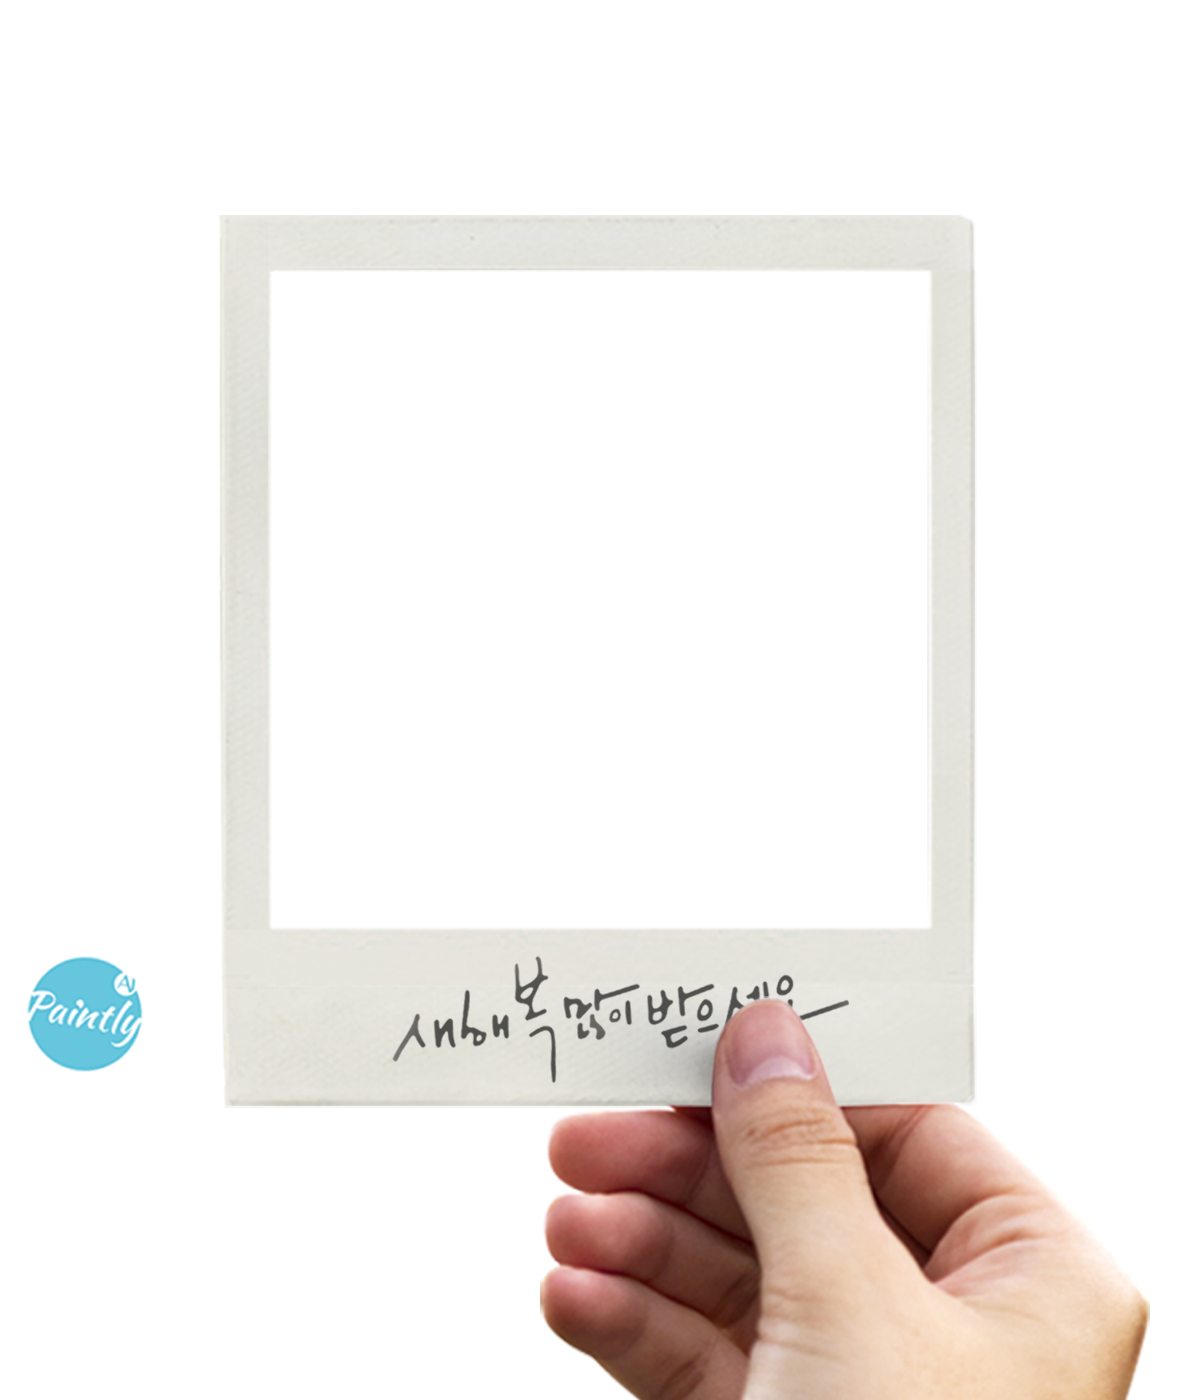
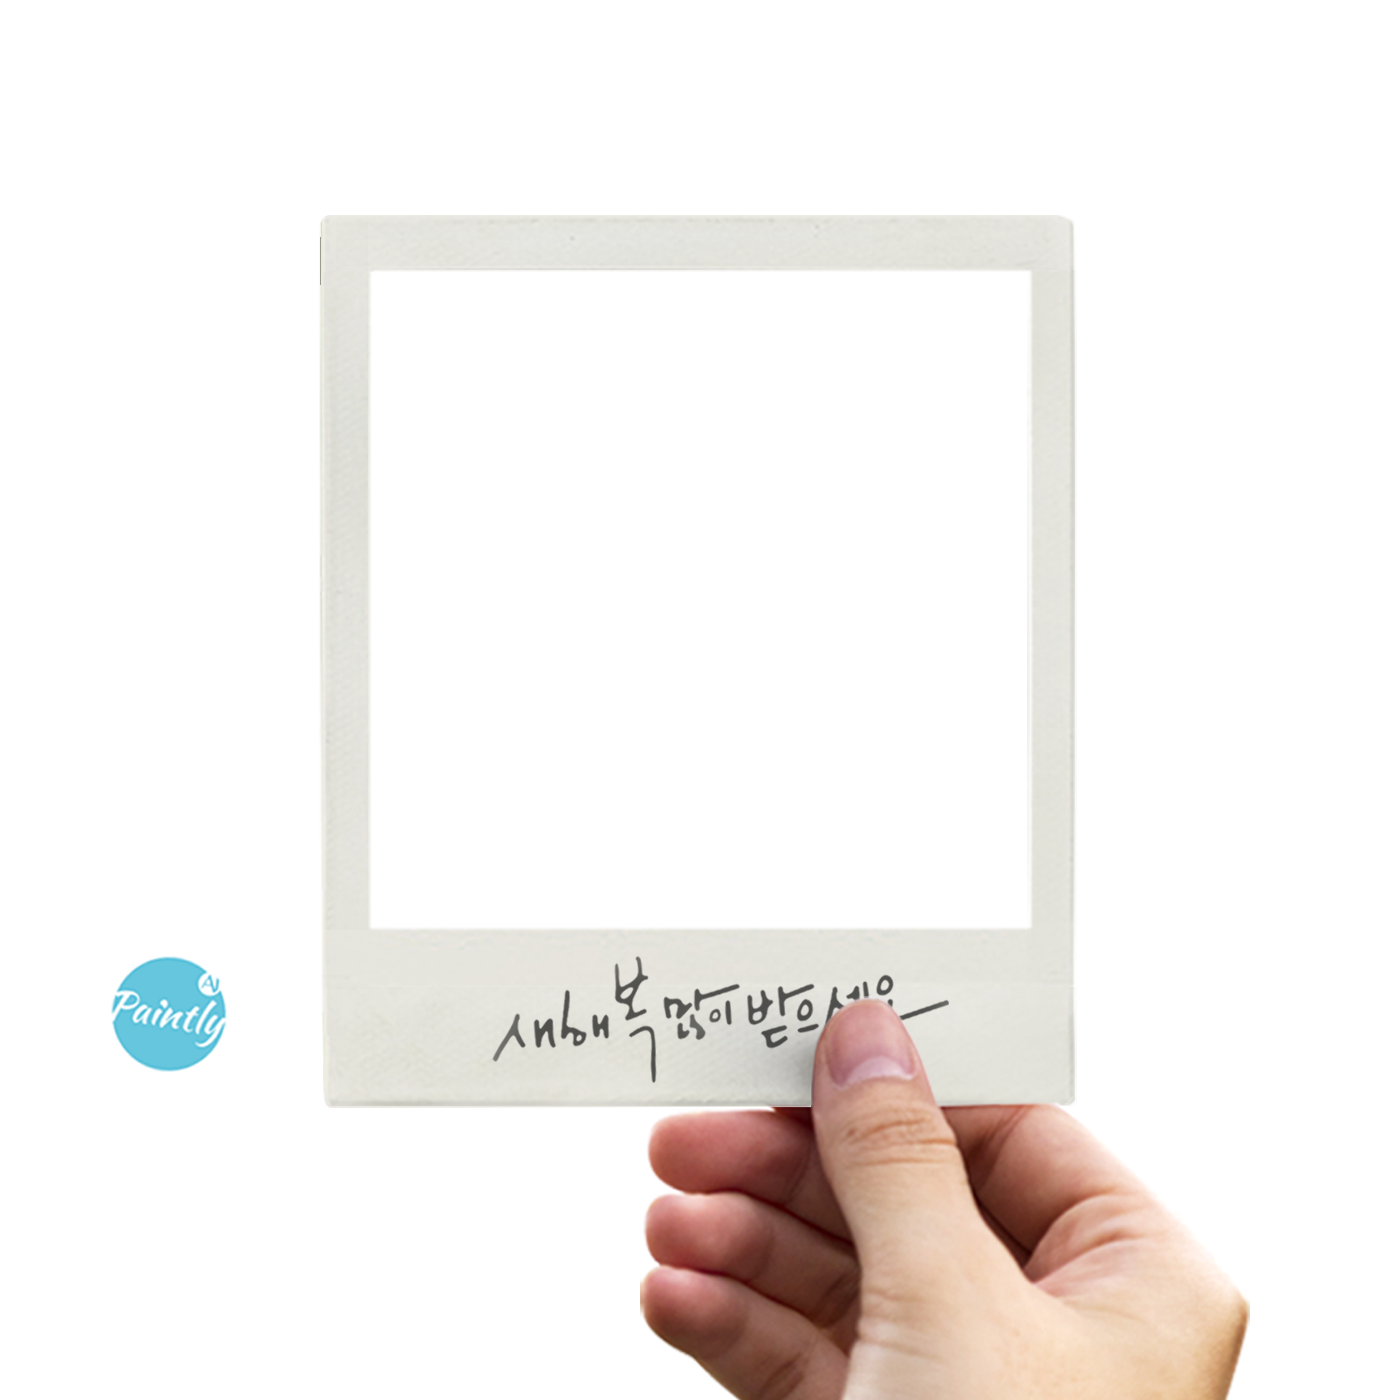
size

diff --git a/public/stylesheets/custom.css b/public/stylesheets/custom.css
@@ -11,7 +11,7 @@
 #card_style {box-shadow:none}
 #grip {z-index:11}
 #hiddenBox {position:absolute;top:20%;left:21%;z-index:12;width:55%;height:50%;background-color:transparent}
-#fileForm {top:19%;left:20%;width:57%;height:52%}
+#fileForm {top:19%;left:20%;width:47%;height:52%}
 
 /* nav_하단버튼 글자 */
 div#bottomList {position:relative;width:95%}
@@ -59,9 +59,10 @@ div#bottomList {position:relative;width:95%}
 @media screen and (min-width: 1025px)
 {
 #fileForm {
-    top: 19%;
-    left: 10%;
-    width: 67%;
-    height: 52%;}
+    top: 14%;
+    left: 9%;
+    width: 65%;
+    height: 60%;}
+
 
 }

diff --git a/public/stylesheets/position.css b/public/stylesheets/position.css
@@ -202,7 +202,7 @@
     width: 100%;
     height: 105%;
     position: absolute;
-    left:0;
+    left:-5.5%;
     top:0;
   }
 
@@ -689,11 +689,11 @@ div#resultBottom .start {
   }
 
   #grip{
-    width: 100%;
-    height: 100%;
+    width: 110%;
+    height: 110%;
     position: absolute;
-    left:0%;
-    top:5.5vh;
+    left:-7.5%;
+    top:3%;
   }
 #fileForm
 {
